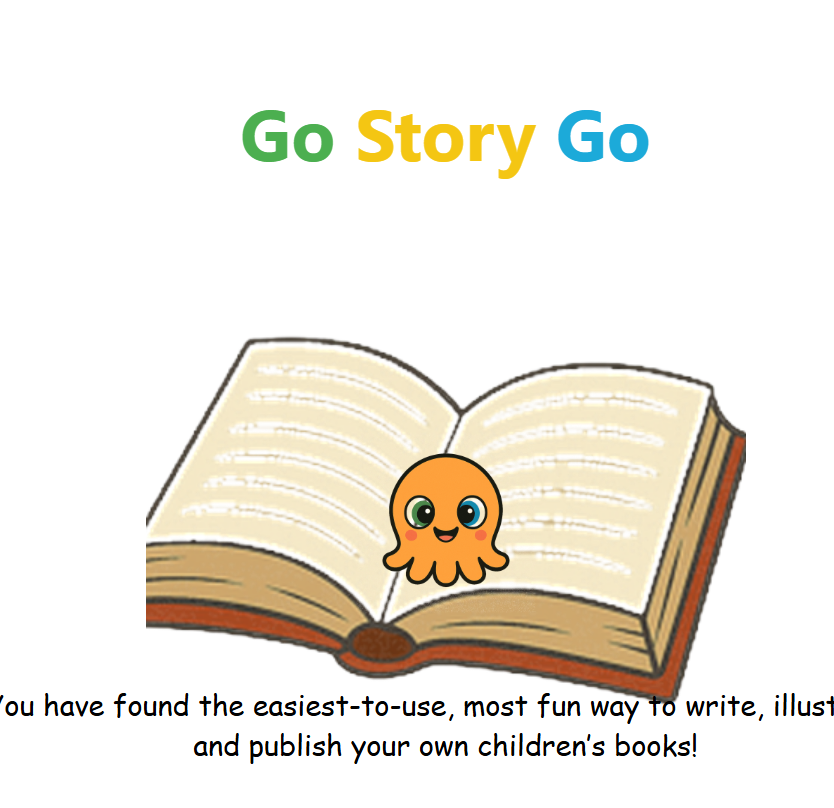
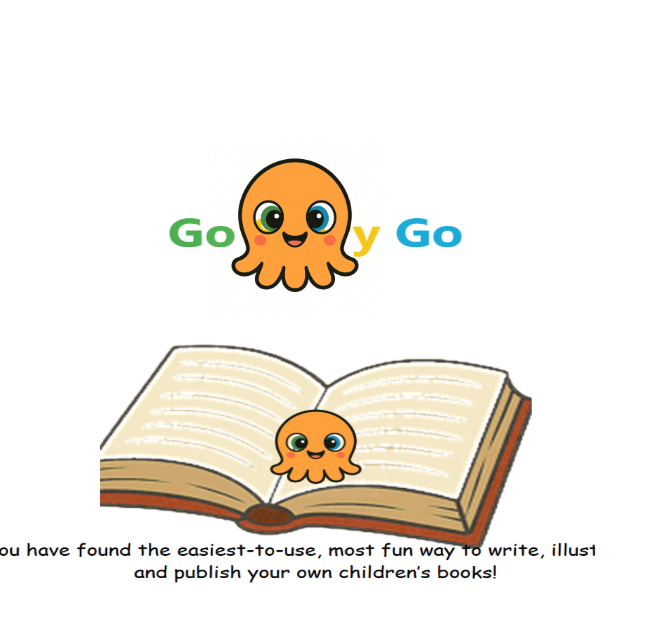
Add files via upload

Changed region(s): [[0.0, 0.242, 1.0, 0.9379], [0.4334, 0.121, 0.774, 0.242], [0.2786, 0.121, 0.4025, 0.2118]]

diff --git a/assets/css/main.css b/assets/css/main.css
@@ -44,32 +44,22 @@ body {
 
 #ink-squirt {
   position: absolute;
-  top: 18%;
-  left: 50%;
-  transform: translateX(-50%);
-  width: 480px;
-  height: 280px;
-
-  left: 50%;
-  transform: translateX(-50%);
-
+  top: 15%;
   left: 50%;
   width: 500px;
-  height: 300px;
+  height: 280px;
   background-image: url('../images/ink-splotch.png');
   background-repeat: no-repeat;
   background-position: center;
   background-size: contain;
   transform: translateX(-50%);
   display: none;
-  z-index: 4;
+  z-index: 3;
 }
 
 .logo {
-  top: 18%;
-  left: 50%;
-  transform: translateX(-50%);
-
+  position: absolute;
+  top: 15%;
   left: 50%;
   transform: translateX(-50%);
   font-size: 3rem;
@@ -80,13 +70,16 @@ body {
 
 .tagline {
   position: absolute;
-  bottom: 10%;
-  width: 100%;
+  bottom: 6%;
+  left: 50%;
+  transform: translateX(-50%);
+  max-width: 90%;
   text-align: center;
   font-size: 1.2rem;
   font-family: 'Comic Sans MS', cursive;
   display: none;
   z-index: 4;
+  white-space: normal;
 }
 
 .go-blue { color: #1caad9; }

diff --git a/assets/js/splash.js b/assets/js/splash.js
@@ -20,7 +20,7 @@ document.addEventListener('DOMContentLoaded', () => {
   }, 2300);
 
   setTimeout(() => {
-    inkling.style.top = '38%';
+    inkling.style.top = '40%';
   }, 2800);
 
   setTimeout(() => {
